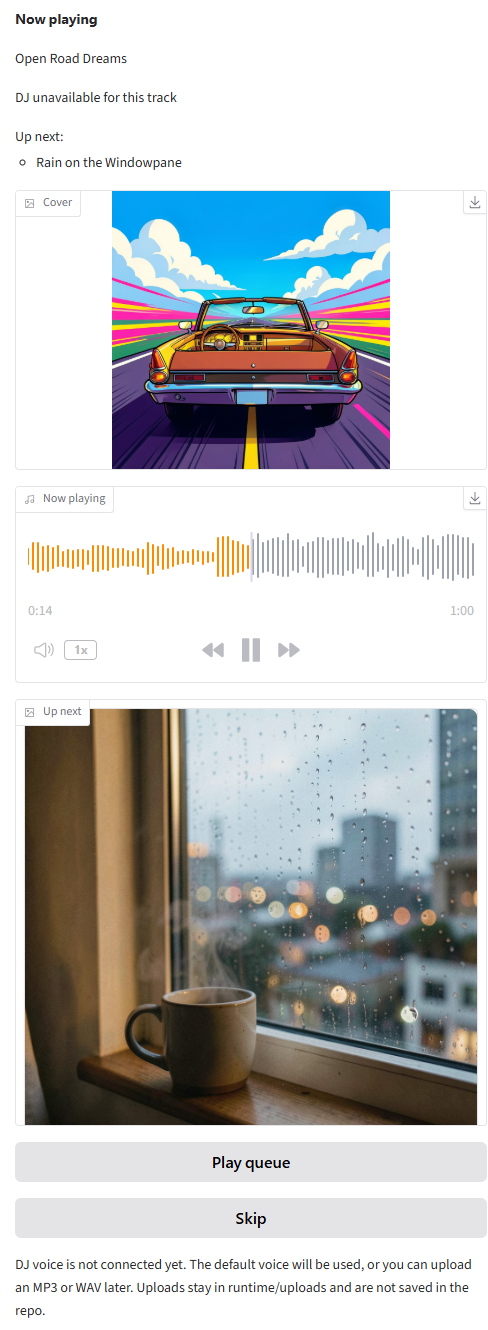
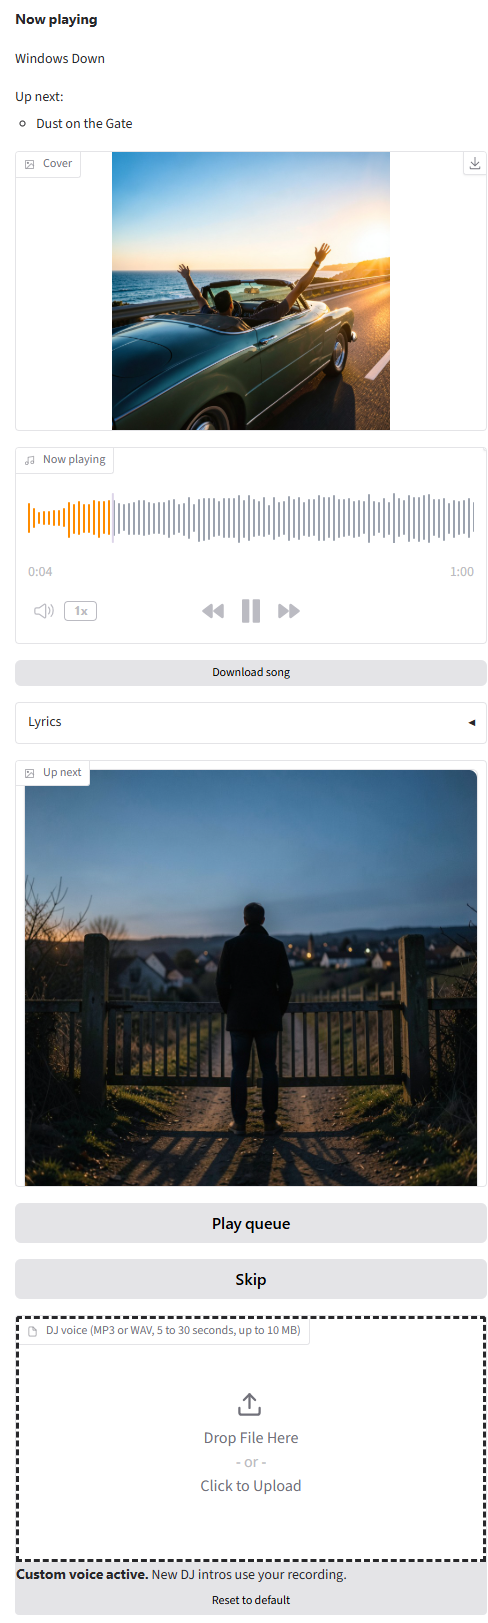
docs(screenshots): DJ with the default and an uploaded voice, and a new main screen and player (C7)
Taken from main at 690b406 (the rc2 commit), since rc1 had no DJ.

AI-assisted: Claude Code; reviewed and tested by @felcervino

diff --git a/docs/screenshots/README.md b/docs/screenshots/README.md
@@ -1,23 +1,29 @@
 # Screenshots (C7)
 
-Taken by @felcervino with Claude Code on 2026-10-26, Windows 11, from the `rc1` tag (`a1a8846`), running
-`python app.py` against the class services, in a headless Microsoft Edge at 1280 px wide, light theme.
+Taken by @felcervino with Claude Code on Windows 11, running `python app.py` against the class services, in a
+headless Microsoft Edge at 1280 px wide, light theme. Most are from the `rc1` tag (`a1a8846`, 2026-10-26).
+The DJ shots, `main-screen.png` and `player-now-playing.png` were taken on 2026-10-29 from `main` at
+`690b406`, the commit `rc2` is tagged from, because `rc1` had no DJ.
 Each was checked for credentials before it was committed: none shows `.env`, a key, a server address, a
 terminal, or browser devtools (DL10).
 
 | File | Shows | For |
 |---|---|---|
-| `main-screen.png` | The whole app: How to use, the Generate tab, and the player playing a generated song | README Overview |
+| `main-screen.png` | The whole app: How to use, the Generate tab, and the player playing a sample song with two more under Up next | README Overview |
 | `generate-vocal-song.png` | The Generate tab after a vocal song (pop, upbeat, 60 s, idea "road trip"): status, title, cover, lyrics, Play now and Add to queue | Using the app: Generate a song |
 | `cover-instrumental-result.png` | The result card of an instrumental song (lo-fi hip hop, mellow, 45 s) with its cover | Using the app: Cover art |
 | `library-song-cover.png` | The Library with the vocal song picked: its cover and details | Using the app: Cover art, Library |
 | `library-midnight-coffee-steam.png` | The Library with the second instrumental song ("Midnight Coffee Steam") picked: its own cover and details | TC-04 evidence |
-| `player-now-playing.png` | The player: Now playing with the song's cover, the audio player, and Up next with the next song's cover | Using the app: playback |
+| `player-now-playing.png` | The player: Now playing a vocal sample ("Windows Down") with its cover, the audio player, and Up next with the next song's cover; the DJ voice box below shows a custom voice | Using the app: playback |
+| `dj-default-voice.png` | The DJ speaking before the first sample, in the default voice: "DJ speaking…", Up next, and the DJ voice box saying "Default DJ voice" | Using the app: DJ |
+| `dj-custom-voice.png` | The DJ speaking in a custom voice uploaded through the DJ voice box: "Custom voice active" and **Reset to default** | Using the app: DJ |
 | `error-cover-failed-retry.png` | Error state: FLUX unreachable, so the song keeps the placeholder cover, with the note and Retry cover | Using the app: Cover art; error state |
 
 Notes:
 - The error state was made by starting the app with the environment variable
   `FLUX_BASE_URL=http://127.0.0.1:9006` (nothing listens there on our machines; the port must stay 9006 or
   the config check refuses it), so the cover call failed. No settings file was changed.
-- `rc1` has no DJ voice yet ("DJ unavailable for this track"), so the DJ screenshots wait for the next
-  release candidate.
+- The custom voice is @felcervino's own recording, uploaded through the app's **DJ voice** box. The app
+  keeps it in `runtime/uploads/` (gitignored); the recording isn't committed, and its file name doesn't show.
+- A screenshot can't show sound. @felcervino listened in the same app run on 2026-10-29: the DJ intros
+  played in the default voice with the default set, and in the uploaded voice with the recording active.

diff --git a/README.md b/README.md
@@ -119,7 +119,7 @@ The vocal result card is in the screenshot above, and an instrumental one is und
 
 ![The player: Now playing with the song's title and cover, the audio player, and Up next with the next song's cover](docs/screenshots/player-now-playing.png)
 
-*The player playing the vocal song, with the next song under **Up next**.*
+*The player playing a vocal sample song, with the next song under **Up next**.*
 
 **What to expect**
 - **Wait:** about 5 to 10 seconds per song when the class servers are quiet. We measured 4.8 to 9.5 s in B5 (#32), 5.5 to 7 s in B6 (#36), and a reviewer saw 7 s. Most of it is the music model (ACE-Step, 4.4 to 8.4 s); the text model (Qwen) takes 0.4 to 1.5 s. The page says "usually about 10 s". It can take longer when many people use the class servers, and the status line keeps counting so you can see it hasn't frozen.
